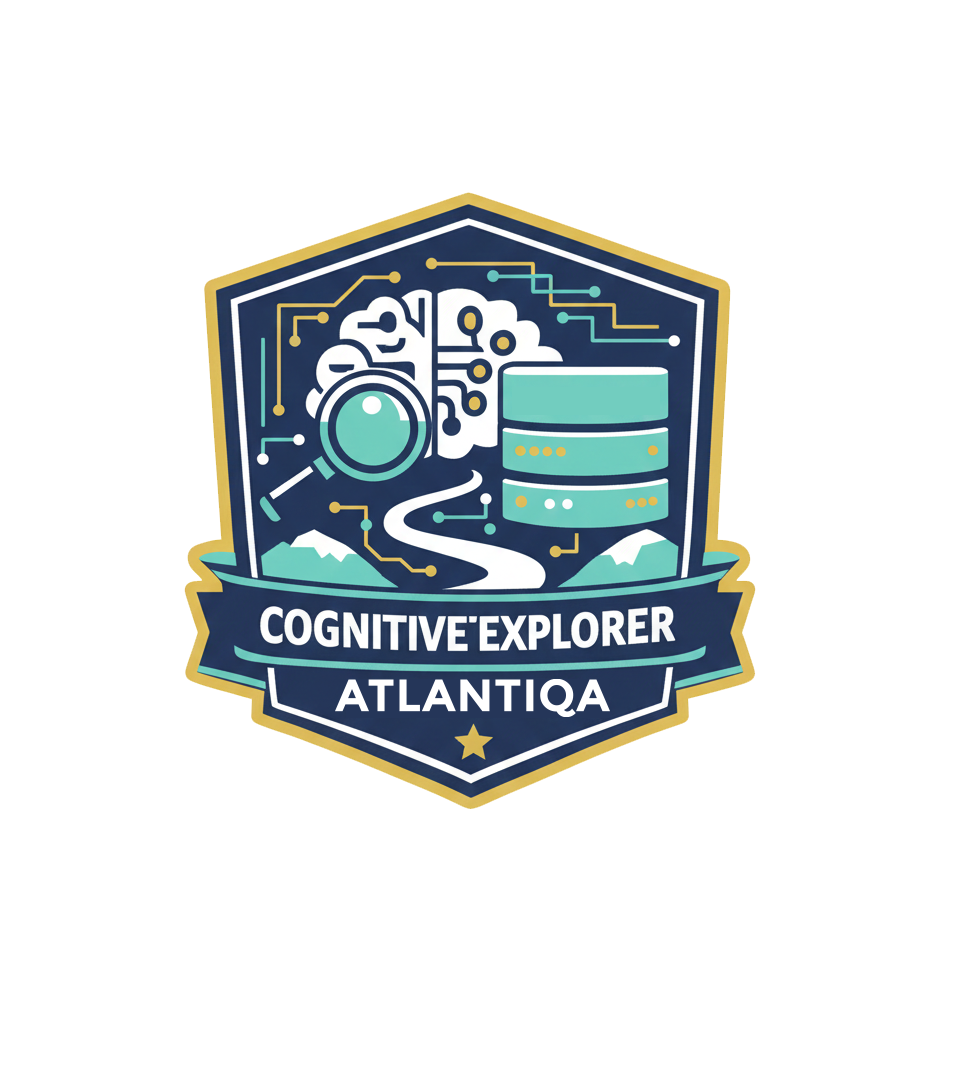
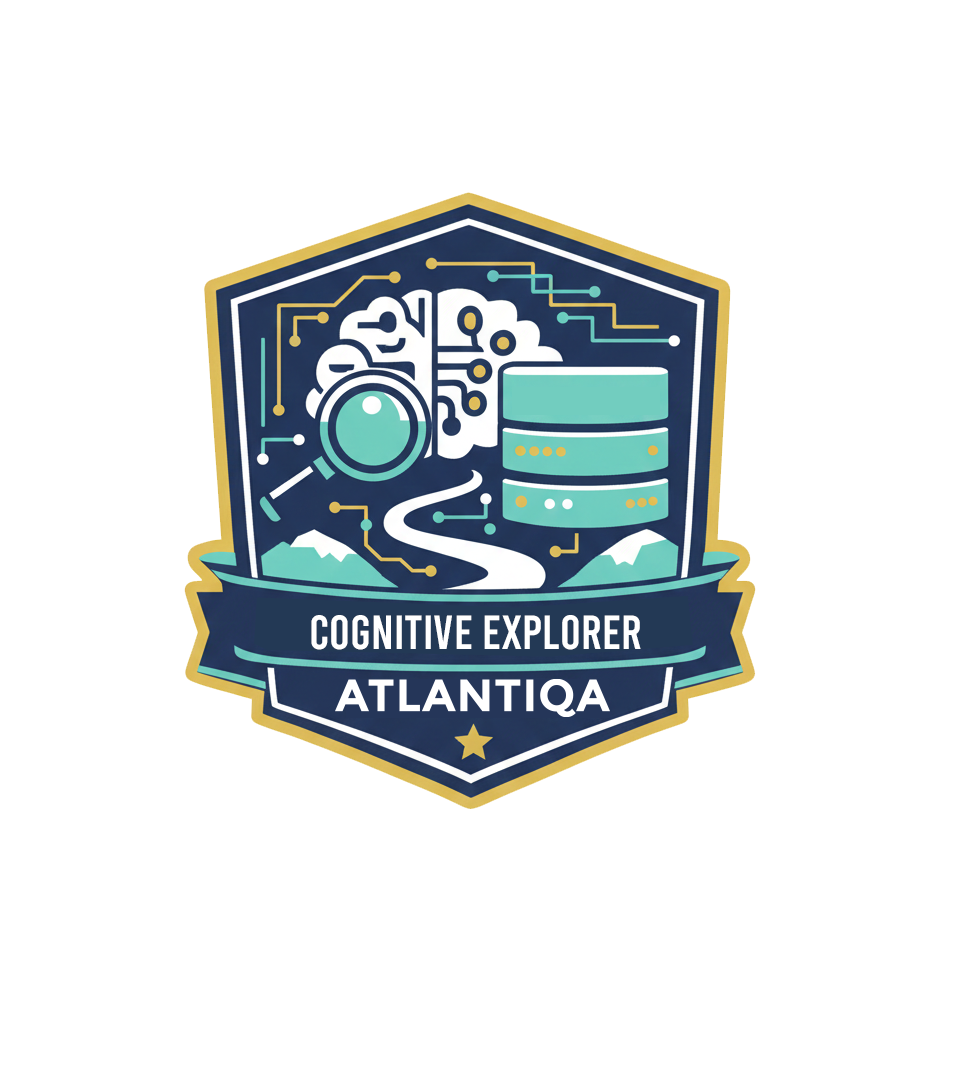
docs: standardize badge roles to Cognitive Explorer/Builder/Engineer/Steward

Changed region(s): [[0.25, 0.5312, 0.7188, 0.5938]]

diff --git a/README.md b/README.md
@@ -79,10 +79,10 @@ Cada contribución es un paso en tu evolución como profesional de la Era Cognit
 
 | Nivel | Rol | Badge | Reto Sugerido |
 | :---: | :--- | :---: | :--- |
-| **1** | **Explorador** | <img src="docs/assets/badge-cognitive-explore-level1.png" width="80"> | Ejecuta el flujo `init → ingest → analyze` y valida los resultados. |
-| **2** | **Constructor** | <img src="docs/assets/badge-cognitive-explore-level2.png" width="80"> | Ajusta pesos o categorías en el pipeline de análisis semántico. |
-| **3** | **Ingeniero** | <img src="docs/assets/badge-cognitive-explore-level3.png" width="80"> | Desarrolla un nuevo conector de ingesta o mejora los tests de CI. |
-| **4** | **Steward** | <img src="docs/assets/badge-owner.png" width="80"> | Lidera la gobernanza de datos y mentoriza a nuevos compañeros. |
+| **1** | **Cognitive Explorer** | <img src="docs/assets/badge-cognitive-explore-level1.png" width="80"> | Ejecuta el flujo `init → ingest → analyze` y valida los resultados. |
+| **2** | **Cognitive Builder** | <img src="docs/assets/badge-cognitive-explore-level2.png" width="80"> | Ajusta pesos o categorías en el pipeline de análisis semántico. |
+| **3** | **Cognitive Engineer** | <img src="docs/assets/badge-cognitive-explore-level3.png" width="80"> | Desarrolla un nuevo conector de ingesta o mejora los tests de CI. |
+| **4** | **Cognitive Steward** | <img src="docs/assets/badge-owner.png" width="80"> | Lidera la gobernanza de datos y mentoriza a nuevos compañeros. |
 
 ---
 
